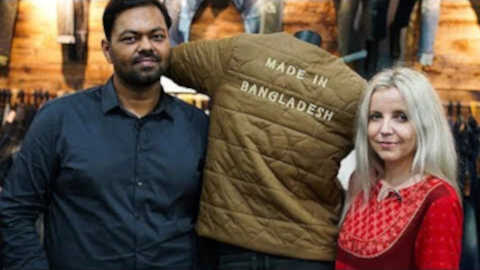
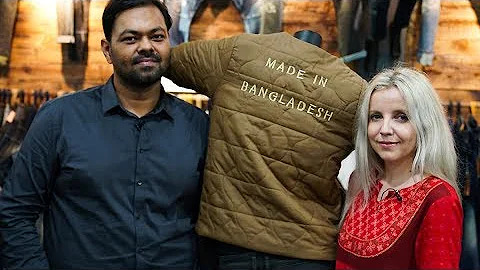
hello

diff --git a/src/components/Sustainability.svelte b/src/components/Sustainability.svelte
@@ -22,7 +22,7 @@
 
       Article
         div(slot="first")
-          img.faded_out(src="/images/optimized/sustainability_2.jpg" style="--delay: 0.5")
+          img.faded_out(src="/images/optimized/sustainability_2.webp" style="--delay: 0.5")
           p.faded_out(style="--delay: 0.75") His factory has been recognized as 'New Champion' by the World Economic Forum (WEF) for its extraordinary performance in sustainability and inclusivity.
         div(slot="last")
           h3.faded_out(style="--delay: 1") Special care is given to all workers and managers,
@@ -31,7 +31,7 @@
 
       Article
         div.moved_left(slot="first" style="--delay: 0.5")
-          img(src="/images/optimized/sustainability_4.jpg")
+          img(src="/images/optimized/sustainability_4.webp")
         div.moved_right(slot="last" style="--delay: 0.5")
           h3 Mostafiz Uddin works personally on all latest denim developments,
           p which are based on recycled material and cradle-to-cradle projects. These developments can be of great benefit for his clients

diff --git a/src/components/sub_components/HomeHeader.svelte b/src/components/sub_components/HomeHeader.svelte
@@ -7,7 +7,7 @@
     img(src="/images/optimized/home_header_1.jpg")
     Background(image="home_header_2")
       .content
-        p.faded_out(style="--delay: 1") Denim is my true passion. From the early days in the industry, till today, I do emphasize on bringing my part to denim at all levels. I boldly invest time into denim-fabric, design, development and washing, enabling my team and clients to take advantage of this. Let me take you through a presentation of my <br/> denim universe.
+        p.faded_out(style="--delay: 1") Denim is my true passion. From the early days in the industry, till today, I do emphasize on bringing my part to denim at all levels. I boldly invest time into denim-fabric, design, development and washing, enabling my team and clients to take advantage of this. Let me take you through a presentation of my denim universe.
         h3.moved_down(style="--delay: 2") MOSTAFIZ UDDIN
 </template>
 

diff --git a/src/styles/globals.sass b/src/styles/globals.sass
@@ -47,8 +47,9 @@ a
 .img_cont
   overflow: hidden
   position: relative
-  // padding: 30px
-  // background: #fff
+  // padding: 1%
+  // background: red
+
   &:after
     content: ''
     position: absolute
@@ -61,7 +62,7 @@ a
       0%
         transform: scale(1)
       100%
-        transform: scale(1.1)
+        transform: scale(1.03)
     
   & > *
     transition: transform .5s

diff --git a/src/components/News.svelte b/src/components/News.svelte
@@ -43,6 +43,6 @@
       img
         width: 100%
         height: 50vh
-        object-fit: cover
+        // padding: 3%
 
 </style>
